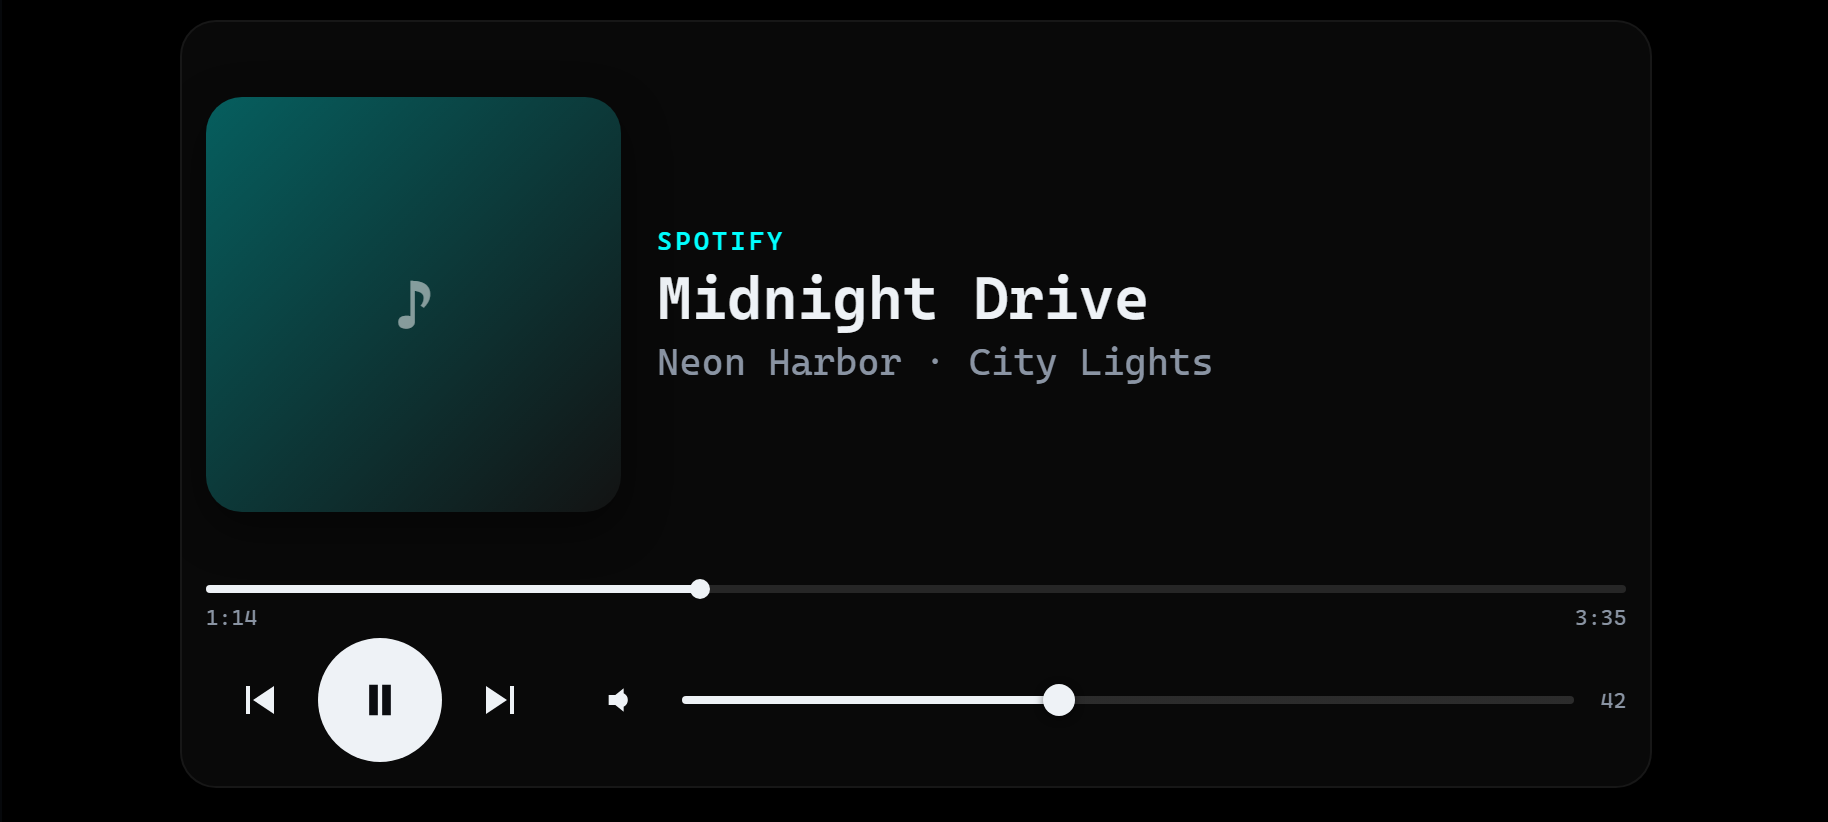
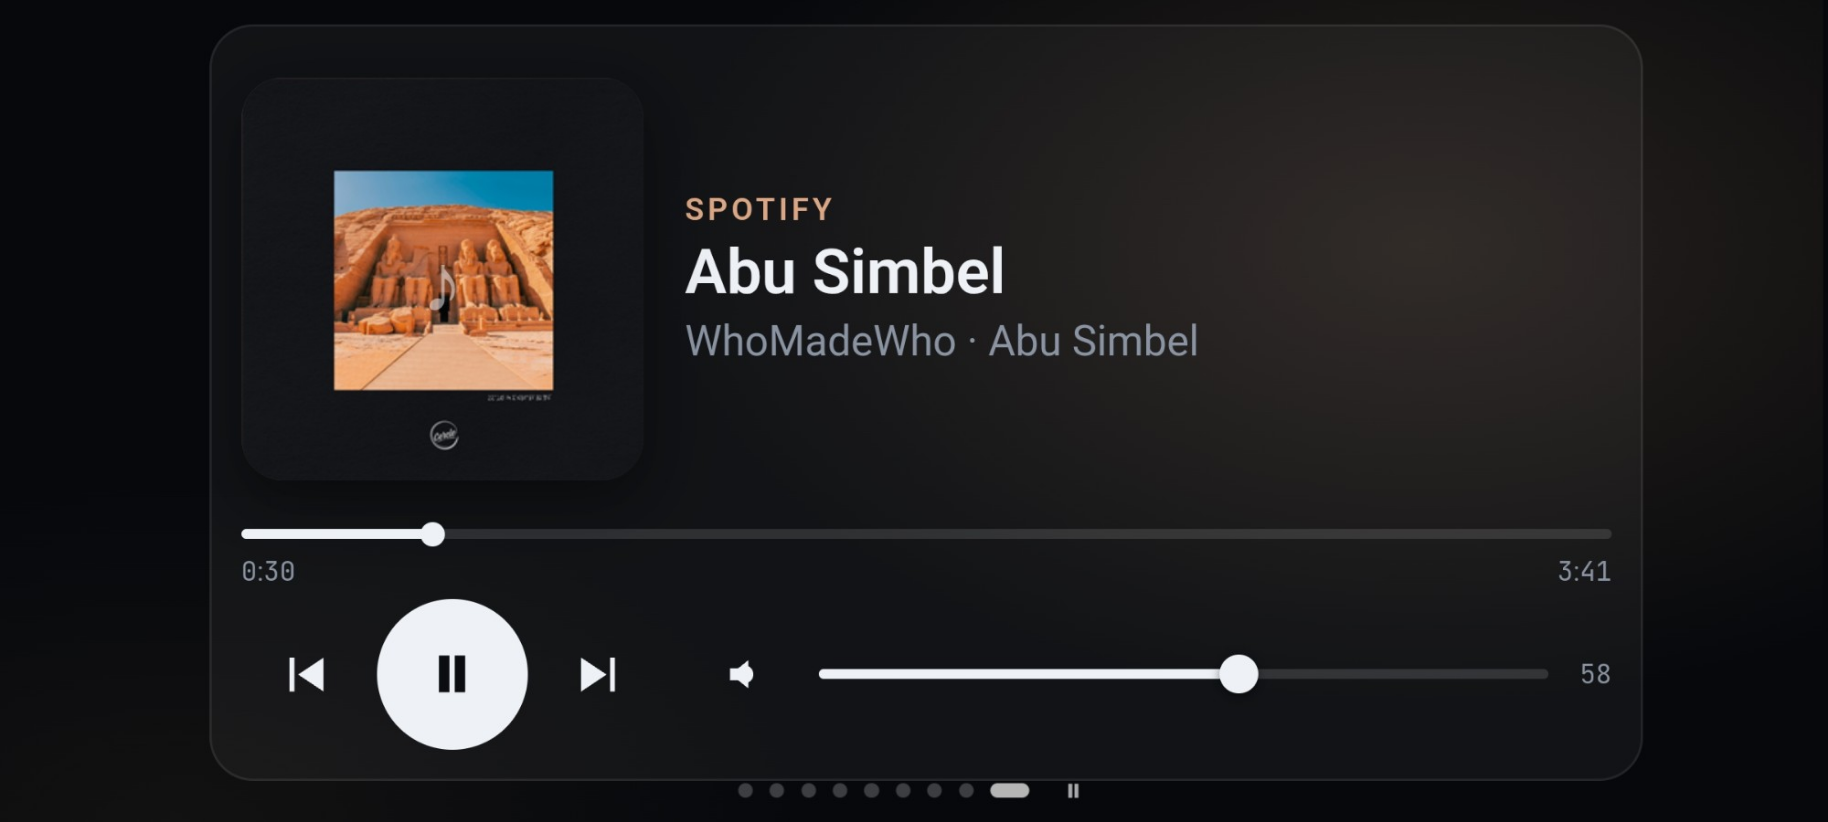
README: real VALORANT/Shortcuts/Music shots, DeskMate name, 3D buttons
- Hero is the VALORANT page (Icebox) in the phone frame; new VALORANT, Shortcuts and Music shots
- Title and prose say DeskMate; specs and AI tools as inline code
- Badges and download button are 3D push buttons (docs/images/*.svg) with JetBrains Mono values
  and a staggered lift-and-press loop, made by tools/make_badges.py

diff --git a/tools/make_badges.py b/tools/make_badges.py
@@ -1,0 +1,130 @@
+"""Makes the README's 3D buttons: docs/images/download-button.svg and docs/images/badge-*.svg.
+
+Style after uiverse.io/Voxybuns/lucky-fireant-71: the coloured top face sits 0.2em above a darker
+base, lifts to 0.33em on hover and drops flat while pressed. GitHub shows README SVGs as plain
+images, which can't react to the mouse, so each button also plays that lift-and-press by itself
+every 5 s, staggered so they take turns (hover/press still work when an SVG is opened on its own).
+
+Each button has two halves: a grey label (Verdana bold) and a coloured value in JetBrains Mono Bold.
+The value font is embedded as a small subset, because an SVG shown as an image can't load fonts.
+
+Usage:  python tools/make_badges.py      (set RELEASE first when a new version ships)
+Needs:  Google Chrome (to measure the label text), `pip install fonttools`, and JetBrains Mono
+        installed (the variable TTF from jetbrains.com/lp/mono or Google Fonts).
+"""
+import base64, html, io, json, os, pathlib, re, subprocess, tempfile
+from fontTools.ttLib import TTFont
+from fontTools.varLib import instancer
+from fontTools import subset
+
+RELEASE = 'v1.0.2'
+LABEL_BG = '#555'
+LABEL_FONT = 'Verdana, Geneva, "DejaVu Sans", sans-serif'
+MONO_ADVANCE = 0.6  # JetBrains Mono: every glyph is 600/1000 em wide
+R = 10.5            # corner radius, the same on every button
+
+# Sizes: font px, face height, inner padding, outer padding (extra room past the rounded corner)
+BADGE = dict(f=13, h=30, pad=9, outer=13)
+DOWNLOAD = dict(f=15, h=44, pad=14, outer=18)
+
+BUTTONS = [  # file, label, value, value colour, base/outline colour, size, arrow icon
+    ('download-button', 'Download', 'DeskmateAgent.exe', '#2563eb', '#1e3a8a', DOWNLOAD, True),
+    ('badge-release', 'release', RELEASE, '#22c55e', '#14532d', BADGE, False),
+    ('badge-pc', 'PC', 'Windows 10/11', '#0078d4', '#0b3a66', BADGE, False),
+    ('badge-phone', 'phone', 'Android 5+', '#3ddc84', '#14532d', BADGE, False),
+    ('badge-license', 'license', 'MIT', '#9f9f9f', '#3f3f46', BADGE, False),
+]
+
+CHROME = r'C:\Program Files\Google\Chrome\Application\chrome.exe'
+MONO_TTF = [os.path.expandvars(r'%LOCALAPPDATA%\Microsoft\Windows\Fonts\JetBrainsMono-VariableFont_wght.ttf'),
+            r'C:\Windows\Fonts\JetBrainsMono-VariableFont_wght.ttf']
+
+
+def measure_labels(items):
+    """Width in px of each (text, font size) in Verdana bold, measured in headless Chrome."""
+    body = ''.join(f'<text style="{html.escape(f"font:bold {f}px {LABEL_FONT}")}">{html.escape(t)}</text>' for t, f in items)
+    page = ('<svg xmlns="http://www.w3.org/2000/svg">' + body + '</svg><script>document.title=JSON.stringify('
+            '[...document.querySelectorAll("text")].map(t=>t.getComputedTextLength()))</script>')
+    p = pathlib.Path(tempfile.gettempdir(), 'measure-badges.html')
+    p.write_text(page, encoding='utf-8')
+    out = subprocess.run([CHROME, '--headless=new', '--disable-gpu', '--dump-dom', p.as_uri()],
+                         capture_output=True, text=True, encoding='utf-8').stdout
+    return json.loads(html.unescape(re.search(r'<title>(.*?)</title>', out).group(1)))
+
+
+def mono_bold():
+    path = next(p for p in MONO_TTF if os.path.exists(p))
+    return instancer.instantiateVariableFont(TTFont(path), {'wght': 700})
+
+
+def mono_subset_b64(font, text):
+    f = TTFont(io.BytesIO(_save(font)))
+    opts = subset.Options(); opts.flavor = 'woff'; opts.name_IDs = ['*']; opts.notdef_outline = True
+    s = subset.Subsetter(opts); s.populate(text=text); s.subset(f)
+    return base64.b64encode(_save(f, 'woff')).decode()
+
+
+def _save(font, flavor=None):
+    font.flavor = flavor
+    b = io.BytesIO(); font.save(b); return b.getvalue()
+
+
+def make(label, value, color, base, size, icon, label_w, font_b64, delay=0.0):
+    f, h, pad, outer = size['f'], size['h'], size['pad'], size['outer']
+    lift, hover = round(0.2 * f, 1), round(0.33 * f, 1)
+    icon_w = f + 6 if icon else 0
+    value_w = len(value) * MONO_ADVANCE * f
+    a = round(outer + icon_w + label_w + pad)   # left (label) half
+    b = round(pad + value_w + outer)            # right (value) half
+    W, y = a + b + 2, round(hover) + 2
+    H = y + h + 1
+    ty = round(y + h / 2 + f * 0.36, 1)
+    arrow = ''
+    if icon:
+        cx, s = 1 + outer + f / 2 - 1, f / 15
+        top, tip = y + h / 2 - 7 * s, y + h / 2 + 3.5 * s
+        arrow = (f'\n    <path d="M{cx:.1f} {top:.1f}V{tip:.1f}m-{4.5*s:.1f}-{4.5*s:.1f}l{4.5*s:.1f} {4.5*s:.1f} {4.5*s:.1f}-{4.5*s:.1f}'
+                 f'M{cx-6*s:.1f} {tip+4*s:.1f}h{12*s:.1f}" fill="none" stroke="#fff" stroke-width="{2.2*s:.1f}" '
+                 f'stroke-linecap="round" stroke-linejoin="round"/>')
+    lx = 1 + outer + icon_w + label_w / 2
+    return f'''<svg xmlns="http://www.w3.org/2000/svg" width="{W}" height="{H}" viewBox="0 0 {W} {H}" role="img" aria-label="{label} {value}">
+  <title>{label} {value}</title>
+  <!-- 3D button for the README, made by tools/make_badges.py. JetBrains Mono subset: SIL Open Font License 1.1, (c) The JetBrains Mono Project Authors -->
+  <style>
+    @font-face {{ font-family: "JBM"; font-weight: 700; src: url(data:font/woff;base64,{font_b64}) format("woff"); }}
+    .top {{ transform: translateY(-{lift}px); transition: transform .1s ease;
+            animation: press 5s ease-in-out {delay:.1f}s infinite; }}
+    @keyframes press {{ 0%, 72% {{ transform: translateY(-{lift}px); }} 80%, 86% {{ transform: translateY(-{hover}px); }}
+                        89% {{ transform: translateY(0); }} 94%, 100% {{ transform: translateY(-{lift}px); }} }}
+    @media (prefers-reduced-motion: reduce) {{ .top {{ animation: none; }} }}
+    svg:hover .top {{ animation: none; transform: translateY(-{hover}px); }}
+    svg:active .top {{ animation: none; transform: translateY(0); }}
+    svg {{ cursor: pointer; }}
+    text {{ font-size: {f}px; font-weight: bold; fill: #fff; }}
+    .l {{ font-family: {LABEL_FONT}; }}
+    .v {{ font-family: "JBM", "JetBrains Mono", Consolas, monospace; }}
+  </style>
+  <defs><clipPath id="face"><rect x="1" y="{y}" width="{W - 2}" height="{h}" rx="{R}"/></clipPath></defs>
+  <rect x="1" y="{y}" width="{W - 2}" height="{h}" rx="{R}" fill="{base}"/>
+  <g class="top">
+    <g clip-path="url(#face)">
+      <rect x="1" y="{y}" width="{a}" height="{h}" fill="{LABEL_BG}"/>
+      <rect x="{1 + a}" y="{y}" width="{b}" height="{h}" fill="{color}"/>
+    </g>
+    <rect x="2" y="{y + 1}" width="{W - 4}" height="{h - 2}" rx="{R - 1}" fill="none" stroke="{base}" stroke-width="2"/>{arrow}
+    <text class="l" x="{lx:.1f}" y="{ty}" text-anchor="middle">{html.escape(label)}</text>
+    <text class="v" x="{1 + a + b / 2:.1f}" y="{ty}" text-anchor="middle" textLength="{value_w:.1f}">{html.escape(value)}</text>
+  </g>
+</svg>
+'''
+
+
+repo = pathlib.Path(__file__).resolve().parent.parent
+widths = measure_labels([(lbl, size['f']) for _, lbl, _, _, _, size, _ in BUTTONS])
+mono = mono_bold()
+for i, ((name, label, value, color, base, size, icon), lw) in enumerate(zip(BUTTONS, widths)):
+    # staggered so the buttons take turns: badges left to right, then the download button
+    delay = (len(BUTTONS) - 1) * 0.3 if i == 0 else (i - 1) * 0.3
+    svg = make(label, value, color, base, size, icon, lw, mono_subset_b64(mono, value), delay)
+    (repo / 'docs' / 'images' / f'{name}.svg').write_text(svg, encoding='utf-8')
+    print(name, re.search(r'width="(\d+)" height="(\d+)"', svg).groups(), f'{len(svg)//1024} KB')

diff --git a/README.md b/README.md
@@ -1,27 +1,27 @@
 <div align="center">
 
-# Deskmate
+# DeskMate
 
 **Turn an old Android phone into a desk panel for your Windows PC.**
 
-[![Latest release](https://img.shields.io/github/v/release/harshbachun/Deskmate?label=release&color=22c55e)](https://github.com/harshbachun/Deskmate/releases/latest)
-![Windows 10/11](https://img.shields.io/badge/PC-Windows%2010%20%2F%2011-0078d4)
-![Android 5+](https://img.shields.io/badge/phone-Android%205%2B-3ddc84)
-[![MIT license](https://img.shields.io/badge/license-MIT-lightgrey)](LICENSE)
+[![Latest release](docs/images/badge-release.svg)](https://github.com/harshbachun/Deskmate/releases/latest)
+![Windows 10/11](docs/images/badge-pc.svg)
+![Android 5+](docs/images/badge-phone.svg)
+[![MIT license](docs/images/badge-license.svg)](LICENSE)
 
-<a href="https://github.com/harshbachun/Deskmate/releases/latest/download/DeskmateAgent.exe"><img alt="Download DeskmateAgent.exe" src="https://img.shields.io/badge/⬇%20Download-DeskmateAgent.exe-2563eb?style=for-the-badge"></a>
+<a href="https://github.com/harshbachun/Deskmate/releases/latest/download/DeskmateAgent.exe"><img alt="Download DeskmateAgent.exe" src="docs/images/download-button.svg"></a>
 
-<img src="docs/images/hero.png" alt="Deskmate's home page on a phone: clock, weather, music, calendar and CPU/GPU temperatures" width="820">
+<img src="docs/images/hero.png" alt="DeskMate's VALORANT page on a phone: live match on Icebox, mic, save-clip and hold-to-talk buttons, and GPU stats" width="820">
 
 </div>
 
 ## What it does
 
-- 📊 **Live PC stats:** CPU, GPU, RAM, network, temperatures and the processes using the most.
-- 🤖 **AI usage limits:** your Claude and Codex quotas as bars, with reset times.
-- 🎧 **Discord voice:** mute, deafen and hang up, see who's talking, jump between your favourite servers.
-- 🎯 **VALORANT page:** opens by itself when the game starts. Shows the match, has buttons to save a clip and hold to talk, and lists your stats.
-- 🎵 **Media and shortcuts:** control any music player, and launch apps or lock the PC with one tap.
+- **Live PC stats:** `CPU`, `GPU`, `RAM`, network, temperatures and the processes using the most.
+- **AI usage limits:** your `Claude` and `Codex` quotas as bars, with reset times.
+- **Discord voice:** mute, deafen and hang up, see who's talking, jump between your favourite servers.
+- **VALORANT page:** opens by itself when the game starts. Shows the match, has buttons to save a clip and hold to talk, and lists your stats.
+- **Media and shortcuts:** control any music player, and launch apps or lock the PC with one tap.
 
 The phone connects over **USB or Wi-Fi**. You only download **one file**: the PC app has the phone app, the USB tool and the temperature driver built in.
 
@@ -32,7 +32,7 @@ The phone connects over **USB or Wi-Fi**. You only download **one file**: the PC
 2. **Turn on USB debugging on your phone.**
    Settings › About phone › Software information › tap **Build number** 7 times. Then Settings › Developer options › **USB debugging**.
 3. **Plug the phone into the PC.**
-   Accept *Allow USB debugging?* on the phone (tick *Always allow*). Deskmate installs the phone app and opens the panel.
+   Accept *Allow USB debugging?* on the phone (tick *Always allow*). DeskMate installs the phone app and opens the panel.
 
 To change the layout, pages, shortcuts and more, double-click the tray icon. It opens the settings page at http://127.0.0.1:8765.
 
@@ -40,18 +40,18 @@ To change the layout, pages, shortcuts and more, double-click the tray icon. It 
 
 | | |
 |:---:|:---:|
-| <img src="docs/images/home.png" alt="Home page"><br>**Home**: clock, weather, music, calendar, temperatures | <img src="docs/images/ai-quotas.png" alt="AI quotas page"><br>**AI quotas**: Claude and Codex limits, and when they reset |
-| <img src="docs/images/system.png" alt="System page"><br>**System**: CPU, GPU, memory and network graphs | <img src="docs/images/processes.png" alt="Processes page"><br>**Processes**: what's using your PC; tap one to close it |
+| <img src="docs/images/home.png" alt="Home page"><br>**Home**: clock, weather, music, calendar, temperatures | <img src="docs/images/ai-quotas.png" alt="AI quotas page"><br>**AI quotas**: `Claude` and `Codex` limits, and when they reset |
+| <img src="docs/images/system.png" alt="System page"><br>**System**: `CPU`, `GPU`, memory and network graphs | <img src="docs/images/processes.png" alt="Processes page"><br>**Processes**: what's using your PC; tap one to close it |
 | <img src="docs/images/shortcuts.png" alt="Shortcuts page"><br>**Shortcuts**: one-tap apps, mute, screen off and lock | <img src="docs/images/discord.png" alt="Discord page"><br>**Discord**: voice controls, your servers, OBS scenes |
-| <img src="docs/images/valorant.png" alt="VALORANT page"><br>**VALORANT**: match status, save clip, hold to talk | <img src="docs/images/music.png" alt="Music page"><br>**Music**: big player controls for whatever is playing |
-| <img src="docs/images/sessions.png" alt="Sessions page"><br>**Sessions**: your Claude Code and Codex sessions, and GitHub | |
+| <img src="docs/images/valorant.png" alt="VALORANT page"><br>**VALORANT**: live match, mic, save clip, hold to talk, `GPU` stats | <img src="docs/images/music.png" alt="Music page"><br>**Music**: big player controls for whatever is playing |
+| <img src="docs/images/sessions.png" alt="Sessions page"><br>**Sessions**: your `Claude Code` and `Codex` sessions, and GitHub | |
 
-*Screenshots use made-up data.*
+*The VALORANT, Shortcuts and Music screenshots are from a real PC; the others use made-up data.*
 
 ## Requirements
 
-- **PC:** Windows 10 or 11 (64-bit).
-- **Phone:** any Android phone or tablet with Android 5.0 or later, and a USB cable. After setup you can use Wi-Fi instead.
+- **PC:** `Windows 10/11` (`64-bit`).
+- **Phone:** any Android phone or tablet with `Android 5.0` or later, and a USB cable. After setup you can use Wi-Fi instead.
 
 ## FAQ
 
@@ -71,21 +71,21 @@ The exe isn't code-signed, so SmartScreen warns about it. Click **More info › 
 </details>
 
 <details>
-<summary><b>CPU temperature doesn't show</b></summary>
+<summary><b><code>CPU</code> temperature doesn't show</b></summary>
 
-Reading it needs a small sensor driver (PawnIO), which is built into Deskmate. Tray icon › **Set up CPU temperature…** then click **Yes** on the Windows admin prompt. You only do this once.
+Reading it needs a small sensor driver (PawnIO), which is built into DeskMate. Tray icon › **Set up CPU temperature…** then click **Yes** on the Windows admin prompt. You only do this once.
 </details>
 
 <details>
 <summary><b>Can I use Wi-Fi instead of USB?</b></summary>
 
-Yes. Go to Settings › General › Wi-Fi › **Pair a phone over Wi-Fi**, and scan the QR code with the phone. When Windows Firewall asks, allow Deskmate on **Private** networks. The PC and the phone must be on the same network.
+Yes. Go to Settings › General › Wi-Fi › **Pair a phone over Wi-Fi**, and scan the QR code with the phone. When Windows Firewall asks, allow DeskMate on **Private** networks. The PC and the phone must be on the same network.
 </details>
 
 <details>
 <summary><b>How do I set up Discord?</b></summary>
 
-Deskmate talks to the Discord app on your PC. It needs a free Discord developer application: see [docs/DISCORD.md](docs/DISCORD.md).
+DeskMate talks to the Discord app on your PC. Send your Discord username to whoever shared DeskMate with you so they can add you to DeskMate's tester list, accept the invite, then turn on **Settings › General › Discord › Connect to Discord** and click **Authorize** in Discord. Details: [docs/DISCORD.md](docs/DISCORD.md).
 </details>
 
 <details>
@@ -99,17 +99,17 @@ Download the new DeskmateAgent.exe and open it. Your settings are kept. The next
 
 1. Tray icon › **Quit**.
 2. Delete `%LOCALAPPDATA%\Deskmate` and `%APPDATA%\Deskmate` (your settings).
-3. Delete the Deskmate shortcuts in the Start menu and the Startup folder.
+3. Delete the DeskMate shortcuts in the Start menu and the Startup folder.
 4. Uninstall the app on the phone.
-5. If you set up CPU temperature, also run `schtasks /Delete /TN "Deskmate sensors" /F` in an admin terminal. Remove **PawnIO** from Installed apps if nothing else uses it.
+5. If you set up `CPU` temperature, also run `schtasks /Delete /TN "Deskmate sensors" /F` in an admin terminal. Remove **PawnIO** from Installed apps if nothing else uses it.
 </details>
 
 <details>
 <summary><b>Does it send my data anywhere?</b></summary>
 
-No. Deskmate has no account and no server of its own: the phone talks only to your PC. A few optional widgets fetch public data, such as the weather. See [PRIVACY.md](PRIVACY.md).
+No. DeskMate has no account and no server of its own: the phone talks only to your PC. A few optional widgets fetch public data, such as the weather. See [PRIVACY.md](PRIVACY.md).
 </details>
 
 ## Credits
 
-Deskmate is based on [PhoneBox](https://github.com/ersinkoc/phonebox) by Ersin Koç (MIT, see [LICENSE](LICENSE)). The third-party parts are listed in [THIRD-PARTY-NOTICES.txt](agent/Deskmate.Agent/THIRD-PARTY-NOTICES.txt). Want to build it yourself? See [BUILDING.md](BUILDING.md).
+DeskMate is based on [PhoneBox](https://github.com/ersinkoc/phonebox) by Ersin Koç (MIT, see [LICENSE](LICENSE)). The third-party parts are listed in [THIRD-PARTY-NOTICES.txt](agent/Deskmate.Agent/THIRD-PARTY-NOTICES.txt). Want to build it yourself? See [BUILDING.md](BUILDING.md).

diff --git a/BUILDING.md b/BUILDING.md
@@ -22,4 +22,5 @@ $env:JAVA_HOME = '<path to JDK 17>'; $env:ANDROID_HOME = "$env:LOCALAPPDATA\Andr
 
 1. Raise the version: `Version` in `agent/Deskmate.Agent/Deskmate.Agent.csproj`, and `versionName` and `versionCode` in `android/app/build.gradle.kts`.
 2. Run `build-release.ps1`.
-3. Create a GitHub release and attach `dist\DeskmateAgent.exe`, the APK and `THIRD-PARTY-NOTICES.txt`.
+3. Set `RELEASE` in `tools/make_badges.py` and run `python tools/make_badges.py`, so the README's release button shows the new version.
+4. Create a GitHub release and attach `dist\DeskmateAgent.exe`, the APK and `THIRD-PARTY-NOTICES.txt`.
